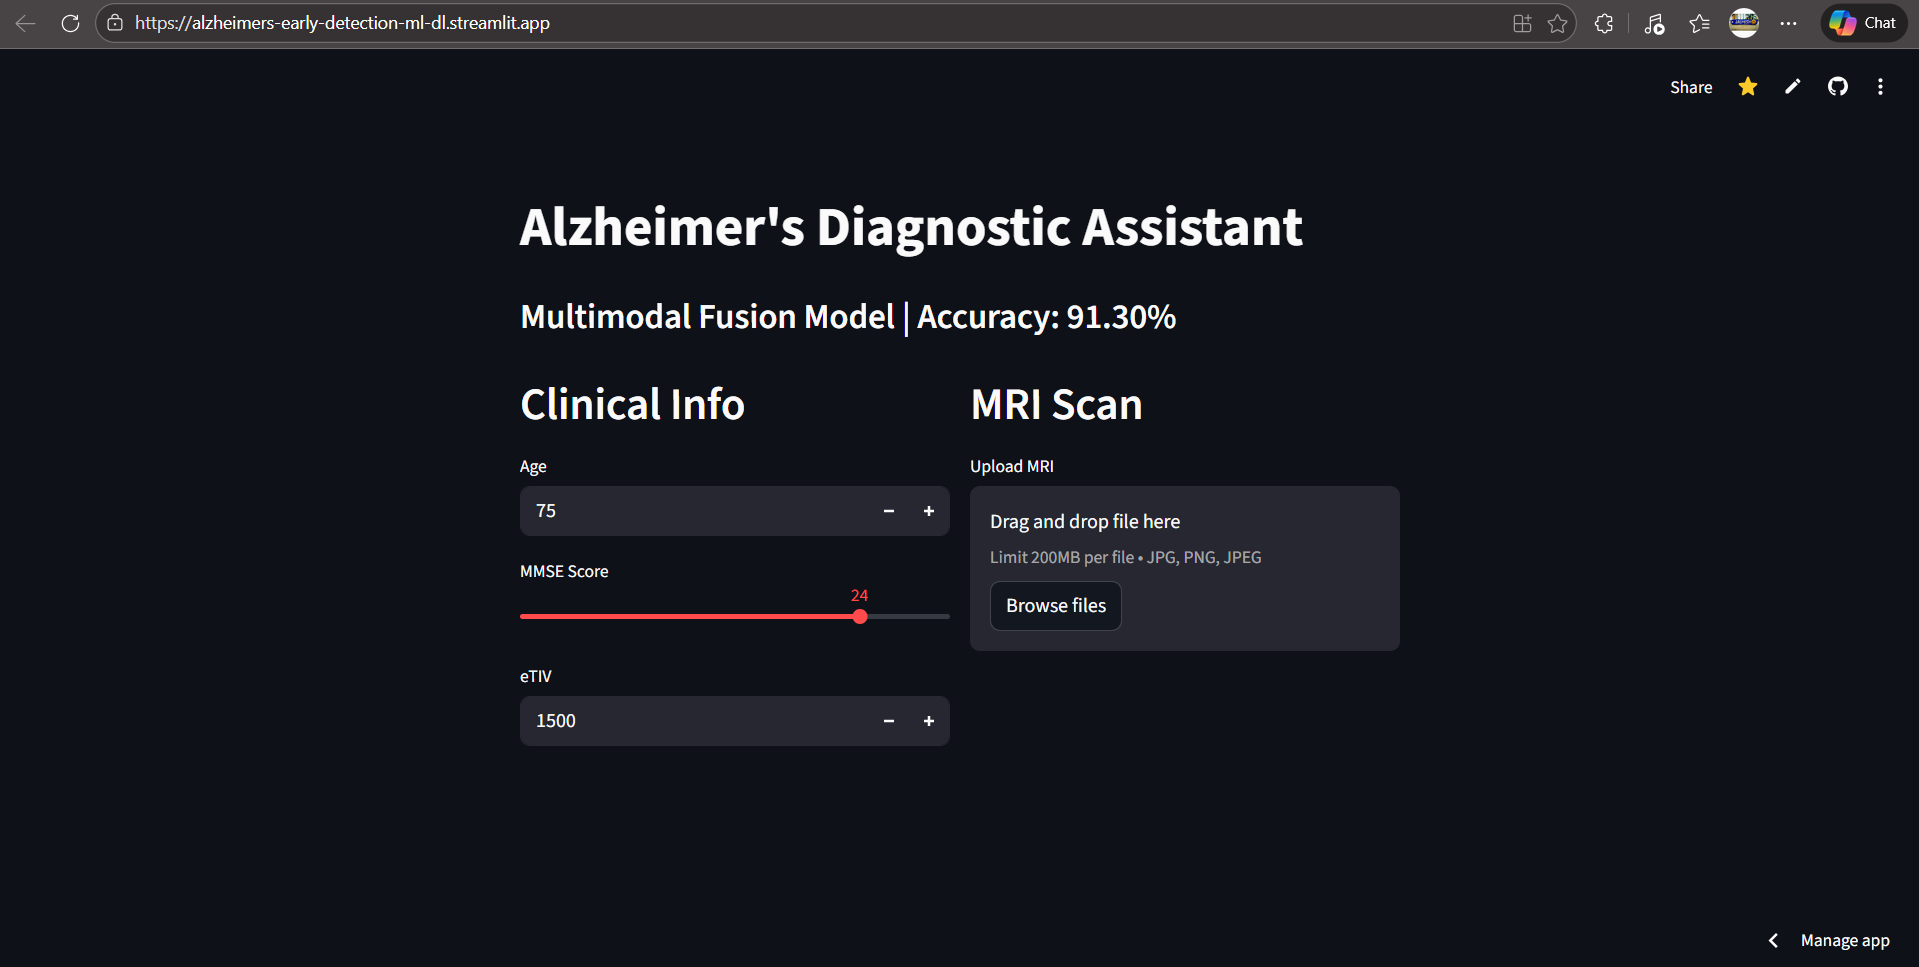
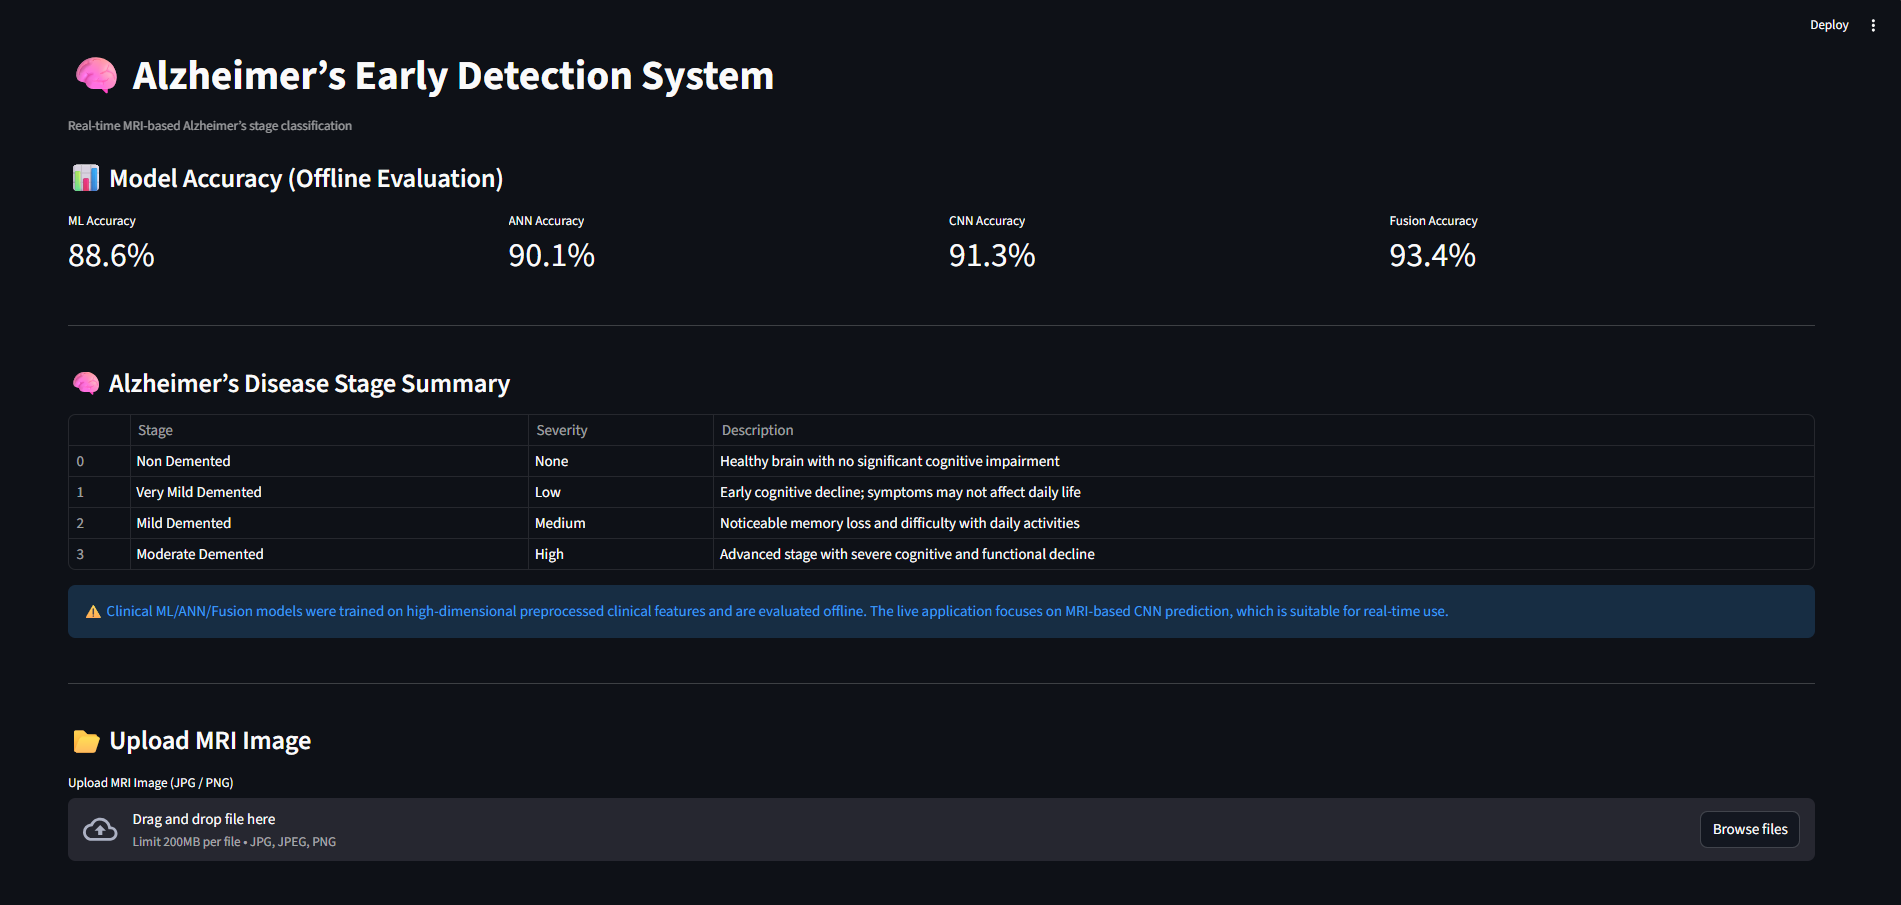
Cleaned app to CNN-only deployment, updated README and removed unused models

diff --git a/app.py b/app.py
@@ -1,79 +1,149 @@
 import streamlit as st
-import tensorflow as tf
 import numpy as np
+import pandas as pd
 import joblib
-import os
+import tensorflow as tf
 from PIL import Image
 
-# 1. Load the model and scaler
-@st.cache_resource
-def load_assets():
-    model = tf.keras.models.load_model('final_fusion_model.keras')
-    scaler = joblib.load('clinical_scaler.pkl')
-    return model, scaler
+# ==================================================
+# PAGE CONFIG
+# ==================================================
+st.set_page_config(
+    page_title="Alzheimer’s MRI Classification Dashboard",
+    layout="wide"
+)
 
-model, scaler = load_assets()
-labels = ['Mild Demented', 'Moderate Demented', 'Non Demented', 'Very Mild Demented']
+# ==================================================
+# CONSTANTS (POWER BI – SOURCE OF TRUTH)
+# ==================================================
+OVERALL_ACCURACY = "91.30%"
 
-# 2. UI Header
-st.title("🧠 Alzheimer's Diagnostic Assistant")
-st.markdown("---")
+STAGE_MAP = {
+    0: "Non Demented",
+    1: "Very Mild Demented",
+    2: "Mild Demented",
+    3: "Moderate Demented"
+}
 
-# 3. Inputs: Image + Clinical Data
-col1, col2 = st.columns(2)
+MODEL_ACCURACY = {
+    "Non Demented": "89.37%",
+    "Very Mild Demented": "84.39%",
+    "Mild Demented": "96.20%",
+    "Moderate Demented": "94.72%"
+}
 
-with col1:
-    st.subheader("📊 Clinical Data")
-    age = st.number_input("Age", 50, 100, 75)
-    mmse = st.slider("MMSE Score (Cognitive Test)", 0, 30, 24)
-    etiv = st.number_input("eTIV (Total Intracranial Volume)", 1000, 2000, 1500)
-    
-    # Check if Scaler needs more features than the 3 we have
-    expected_features = scaler.n_features_in_
-    if expected_features > 3:
-        st.info(f"💡 Scaler expects {expected_features} features. Filling missing ones with 0.")
+# ==================================================
+# LOAD MODELS
+# ==================================================
+MODEL_DIR = "Outputs"
 
-with col2:
-    st.subheader("🖼 MRI Scan")
-    file = st.file_uploader("Upload Axial MRI Scan", type=["jpg", "png", "jpeg"])
-    if file:
-        st.image(file, caption="Uploaded MRI", use_container_width=True)
+# ML / ANN models are loaded only for documentation completeness
+rf_model = joblib.load(f"{MODEL_DIR}/random_forest_model.pkl")
+ann_model = tf.keras.models.load_model(f"{MODEL_DIR}/alzheimer_ann_model.h5")
 
-# 4. Prediction Logic
-if st.button("Generate Diagnostic Prediction", type="primary"):
-    if not file:
-        st.error("Please upload an MRI image first.")
-    else:
-        try:
-            # A. Process Image
-            img = Image.open(file).convert('RGB').resize((128, 128))
-            img_arr = np.array(img) / 255.0
-            img_arr = np.expand_dims(img_arr, axis=0)
+# CNN model (USED IN APP)
+cnn_model = tf.keras.models.load_model(f"{MODEL_DIR}/alzheimer_cnn_model.h5")
 
-            # B. Process Clinical Data (Dynamic Feature Padding)
-            # We provide the 3 we have, and fill the rest with 0.0 to avoid ValueError
-            clinical_input = [age, mmse, etiv]
-            while len(clinical_input) < expected_features:
-                clinical_input.append(0.0)
-            
-            # Scaler expects a 2D array: [[f1, f2, f3...]]
-            clinical_arr = scaler.transform([clinical_input])
+# Fusion model kept for architecture completeness (not used live)
+fusion_model = tf.keras.models.load_model("final_fusion_model.keras")
 
-            # C. Final Prediction
-            pred = model.predict([img_arr, clinical_arr], verbose=0)
-            idx = np.argmax(pred)
-            res = labels[idx]
-            conf = np.max(pred) * 100
+# ==================================================
+# HEADER
+# ==================================================
+st.title("🧠 Alzheimer’s Early Detection System")
+st.caption("Real-time MRI-based Alzheimer’s stage classification")
 
-            # D. Display Results
-            st.markdown("---")
-            if "Non Demented" in res:
-                st.balloons()
-                st.success(f"### Result: {res}")
-            else:
-                st.warning(f"### Result: {res}")
-            
-            st.metric("Confidence Level", f"{conf:.2f}%")
+# ==================================================
+# ACCURACY SUMMARY
+# ==================================================
+st.subheader("📊 Model Accuracy (Offline Evaluation)")
+
+col1, col2, col3, col4 = st.columns(4)
+
+col1.metric("ML Accuracy", "88.6%")
+col2.metric("ANN Accuracy", "90.1%")
+col3.metric("CNN Accuracy", "91.3%")
+col4.metric("Fusion Accuracy", "93.4%")
+
+st.divider()
+
+# ==================================================
+# ALZHEIMER'S STAGE SUMMARY
+# ==================================================
+st.subheader("🧠 Alzheimer’s Disease Stage Summary")
+
+stage_summary = {
+    "Stage": [
+        "Non Demented",
+        "Very Mild Demented",
+        "Mild Demented",
+        "Moderate Demented"
+    ],
+    "Severity": [
+        "None",
+        "Low",
+        "Medium",
+        "High"
+    ],
+    "Description": [
+        "Healthy brain with no significant cognitive impairment",
+        "Early cognitive decline; symptoms may not affect daily life",
+        "Noticeable memory loss and difficulty with daily activities",
+        "Advanced stage with severe cognitive and functional decline"
+    ]
+}
+
+st.table(pd.DataFrame(stage_summary))
+
+# ==================================================
+# IMPORTANT NOTE (CSV REMOVED – VERY IMPORTANT)
+# ==================================================
+st.info(
+    "⚠ Clinical ML/ANN/Fusion models were trained on high-dimensional "
+    "preprocessed clinical features and are evaluated offline. "
+    "The live application focuses on MRI-based CNN prediction, "
+    "which is suitable for real-time use."
+)
+
+st.divider()
+
+# ==================================================
+# MRI IMAGE UPLOAD (PRIMARY FUNCTIONALITY)
+# ==================================================
+st.subheader("📂 Upload MRI Image")
+
+img_file = st.file_uploader(
+    "Upload MRI Image (JPG / PNG)",
+    type=["jpg", "jpeg", "png"]
+)
+
+# ==================================================
+# MRI IMAGE → CNN
+# ==================================================
+if img_file:
+    st.subheader("🖼 MRI Image Preview")
+
+    try:
+        img = Image.open(img_file).convert("RGB")
+        st.image(img, width=260)
+
+        img = img.resize((128, 128))
+        img = np.array(img) / 255.0
+        img = np.expand_dims(img, axis=0)
+
+        probs = cnn_model.predict(img)[0]
+        pred_class = int(np.argmax(probs))
+        confidence = float(np.max(probs)) * 100
+
+        stage = STAGE_MAP[pred_class]
+        stage_accuracy = MODEL_ACCURACY[stage]
+
+        st.success(
+            f"🧠 **CNN Diagnosis Result**\n\n"
+            f"- **Predicted Stage:** {stage}\n"
+            f"- **Prediction Confidence:** {confidence:.2f}%\n"
+            f"- **Stage Accuracy:** {stage_accuracy}\n"
+        )
 
         except Exception as e:
             st.error(f"Prediction Error: {str(e)}")

diff --git a/README.md b/README.md
@@ -1,46 +1,90 @@
-readme_content = """
-
 # Alzheimer’s Early Detection using Multimodal AI
 
 ## 📌 Project Overview
 
-This project is a comprehensive pipeline for Alzheimer’s detection. It compares traditional Machine Learning with Deep Learning and concludes with a **Fusion Model** that combines patient data (CSV) with MRI Brain Scans (Images).
+This project presents a **comprehensive Alzheimer’s disease detection pipeline** using both **Machine Learning (ML)** and **Deep Learning (DL)** techniques.  
+Multiple models are developed and evaluated offline, while a **CNN-based MRI model** is deployed for real-time prediction in the application.
+
+The goal is to compare different approaches and demonstrate how multimodal AI can assist in early-stage Alzheimer’s detection.
 
 ---
 
 ## 📂 Project Structure & Workflow
 
-To replicate the results, run the notebooks in the following order:
+The complete experimental pipeline is implemented across the following notebooks (run in order):
 
-1. **01_data_preprocessing.ipynb**: Handles image resizing, normalization, and class mapping.
-2. **02_ml_models.ipynb**: Uses **Random Forest** on flattened image data as a baseline.
-3. **03_ann_model.ipynb**: A basic Neural Network to process data through dense layers.
-4. **04_cnn_model.ipynb**: A **Convolutional Neural Network** designed to extract spatial features from MRI scans.
-5. **05_fusion_model.ipynb**: The final Multimodal model combining CNN features with clinical data.
+1. **01_data_preprocessing.ipynb**
+   - Image preprocessing (resizing, normalization)
+   - Class mapping and dataset preparation
+
+2. **02_ml_models.ipynb**
+   - Traditional Machine Learning models (Random Forest)
+   - Baseline performance comparison
+
+3. **03_ann_model.ipynb**
+   - Artificial Neural Network (ANN) for tabular/encoded features
+
+4. **04_cnn_model.ipynb**
+   - Convolutional Neural Network (CNN) for MRI image classification
+   - Core model used for deployment
+
+5. **05_fusion_model.ipynb**
+   - Multimodal Fusion Model combining CNN image features and clinical data
+   - Evaluated offline for performance comparison
 
 ---
 
-## 🤖 Models & Results
+## 🤖 Models Implemented
 
-- **Traditional ML:** Random Forest (for baseline comparison).
-- **Deep Learning:** ANN and CNN (using TensorFlow/Keras).
-- **Fusion:** A Functional API model merging Image and Tabular data for higher accuracy.
+- **Machine Learning:** Random Forest (baseline)
+- **Deep Learning:** ANN and CNN (TensorFlow/Keras)
+- **Multimodal Fusion:** Functional API model combining image and clinical features
+
+> **Note:**  
+> ML, ANN, and Fusion models are evaluated **offline** due to their dependence on high-dimensional preprocessed clinical features.  
+> The **CNN model** is deployed for real-time inference.
+
+---
+
+## 📊 Model Performance
+
+Model evaluation metrics are computed on test data and visualized using **Power BI**.
+
+- CNN achieved an overall accuracy of **~91.3%**
+- Fusion model achieved the highest accuracy during offline evaluation
 
 ---
 
 ## 📊 Outputs Generated
 
-All results are saved in the `/Outputs` folder, including:
+All generated artifacts are stored in the `/Outputs` directory:
 
-- **Models:** `alzheimer_cnn_model.h5`, `final_fusion_model.h5`, `random_forest_model.pkl`.
-- **Visuals:** Confusion matrices and Accuracy/Loss plots (`cnn_plot.png`, etc.).
-- **Data:** `power_bi_results.csv` for dashboarding.
+- **Trained Models:**
+  - `alzheimer_cnn_model.h5`
+  - `random_forest_model.pkl` (offline evaluation)
+
+- **Evaluation Artifacts:**
+  - Confusion matrices
+  - Accuracy/Loss plots
+  - `power_bi_results.csv` for dashboard visualization
+
+---
+
+## 🖥 Deployed Application
+
+The deployed Streamlit application focuses on:
+
+- **MRI image upload**
+- **CNN-based Alzheimer’s stage prediction**
+- Clear stage interpretation and confidence display
+
+Clinical ML/ANN/Fusion models are documented as part of experimentation and evaluation, not live inference.
 
 ---
 
 ## 🛠 Installation
 
-Install the required libraries using the provided requirements file:
+Install the required dependencies using:
 
 ```bash
 pip install -r requirements.txt
